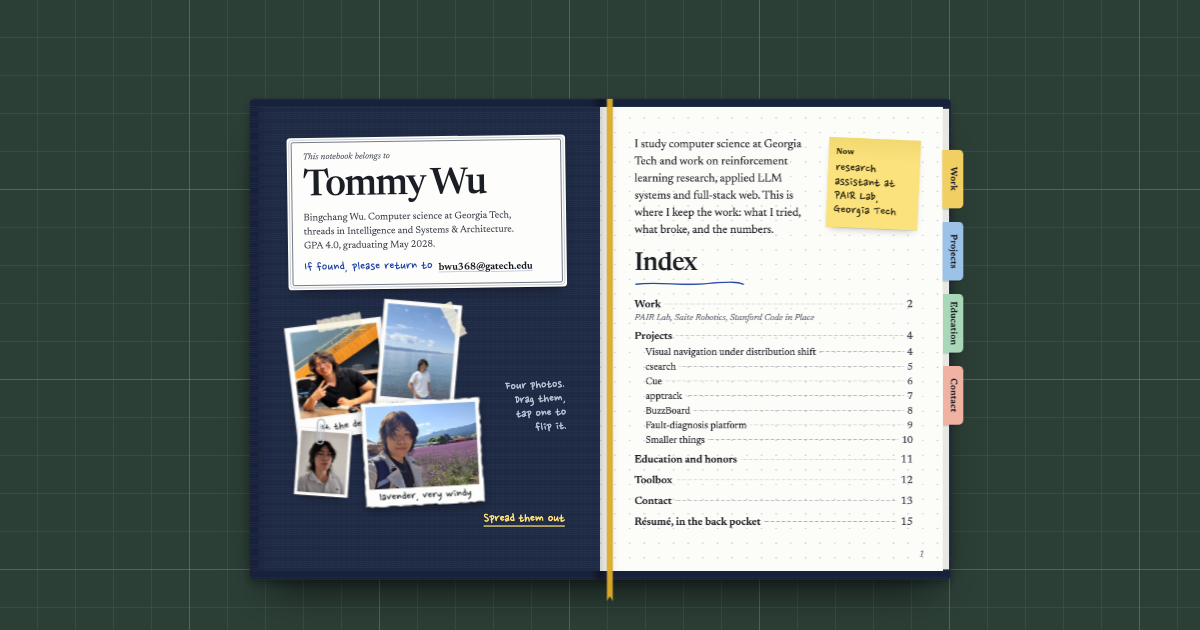
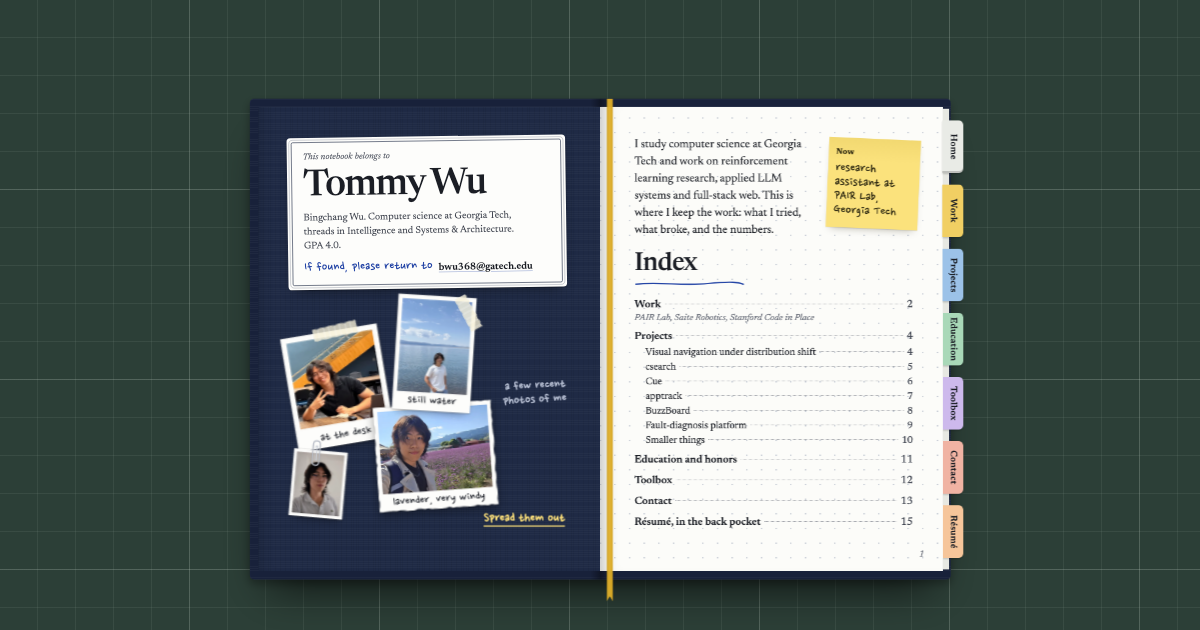
Finish notebook polish and add page stickers

diff --git a/src/notebook/css/home.css b/src/notebook/css/home.css
@@ -240,7 +240,7 @@ body.home main { position: relative; display: flex; flex-direction: column; alig
 
 /* tabs */
 .tab {
-  position: absolute; top: var(--ty); width: 34px; height: 96px; padding: 0; border: 0; cursor: pointer;
+  position: absolute; top: var(--ty); width: 34px; height: 86px; padding: 0; border: 0; cursor: pointer;
   background: var(--tc); color: #1b1e25; font-family: var(--print); font-size: 15px; font-weight: 600; letter-spacing: .01em;
   writing-mode: vertical-rl; display: grid; place-items: center;
   box-shadow: 0 2px 3px rgba(0,0,0,.18);
@@ -252,7 +252,7 @@ body.home main { position: relative; display: flex; flex-direction: column; alig
 .face.front .tab:hover { translate: 3px 0; }
 .face.back .tab:hover { translate: -3px 0; }
 .tab[aria-current="true"] { box-shadow: 0 2px 3px rgba(0,0,0,.18), inset 0 -3px 0 rgba(0,0,0,.18); }
-.tab.c1 { --tc: var(--tab-1); } .tab.c2 { --tc: var(--tab-2); } .tab.c3 { --tc: var(--tab-3); } .tab.c4 { --tc: var(--tab-4); }
+.tab.c0 { --tc: var(--tab-0); } .tab.c5 { --tc: var(--tab-5); } .tab.c6 { --tc: var(--tab-6); } .tab.c1 { --tc: var(--tab-1); } .tab.c2 { --tc: var(--tab-2); } .tab.c3 { --tc: var(--tab-3); } .tab.c4 { --tc: var(--tab-4); }
 
 /* turning handles and the folded corner */
 .grab { position: absolute; top: 0; height: 760px; width: 60px; z-index: 400; cursor: grab; touch-action: none; background: none; border: 0; padding: 0; }
@@ -276,7 +276,7 @@ body.home main { position: relative; display: flex; flex-direction: column; alig
 .pocket .ptabs::-webkit-scrollbar { display: none; }
 .ptab { flex: 1 1 auto; height: 34px; padding: 0 6px; border: 0; border-radius: 7px 7px 0 0; background: var(--tc); color: #1b1e25; font-weight: 600; font-size: 13.5px; cursor: pointer; translate: 0 6px; white-space: nowrap; transition: translate .35s var(--spring); }
 .ptab[aria-current="true"] { translate: 0 0; box-shadow: 0 -2px 4px rgba(0,0,0,.15); }
-.ptab.c0 { --tc: #e9ebe6; } .ptab.c1 { --tc: var(--tab-1); } .ptab.c2 { --tc: var(--tab-2); } .ptab.c3 { --tc: var(--tab-3); } .ptab.c4 { --tc: var(--tab-4); }
+.ptab.c0 { --tc: var(--tab-0); } .ptab.c5 { --tc: var(--tab-5); } .ptab.c6 { --tc: var(--tab-6); } .ptab.c1 { --tc: var(--tab-1); } .ptab.c2 { --tc: var(--tab-2); } .ptab.c3 { --tc: var(--tab-3); } .ptab.c4 { --tc: var(--tab-4); }
 .spiral { position: relative; z-index: 5; height: 26px; margin: 0 4px -12px; pointer-events: none;
   background:
     radial-gradient(ellipse 5px 11px at 50% 50%, transparent 0 3px, #8d939c 3.2px 4.6px, transparent 5px) 0 0 / 20px 26px repeat-x; }
@@ -344,3 +344,28 @@ body.home main { position: relative; display: flex; flex-direction: column; alig
 .e-links .e-note { flex-basis: 100%; }
 /* a page that already lists its trials has no room left for a sketch */
 .entry.feature:has(.trials) .doodle { display: none; }
+/* Photos keep their stacking order to themselves: however often one is raised,
+   it can't climb above the notebook's leaves. */
+.pile-list { isolation: isolate; }
+
+/* ---------- logo stickers (Sticker.astro) ---------- */
+.sticker {
+  position: absolute; z-index: 3; top: -16px; right: -18px; width: var(--w);
+  transform: rotate(var(--r)); transition: transform .45s var(--spring);
+  text-decoration: none;
+}
+.sticker img {
+  display: block; width: 100%; height: auto;
+  /* die-cut: a white outline traced around the logo, then a soft shadow */
+  filter: drop-shadow(2px 0 0 #fff) drop-shadow(-2px 0 0 #fff) drop-shadow(0 2px 0 #fff) drop-shadow(0 -2px 0 #fff)
+          drop-shadow(0 3px 4px rgba(0, 0, 0, .22));
+}
+.sticker.st-rect img { filter: none; border: 3px solid #fff; border-radius: 9px; box-shadow: 0 3px 6px rgba(0, 0, 0, .25); }
+.sticker:hover, .sticker:focus-visible { transform: rotate(calc(var(--r) * -0.4)) translateY(-3px) scale(1.06); }
+.st-label { position: absolute; top: 100%; right: 0; margin-top: 4px; white-space: nowrap; font-size: 20px; line-height: 20px; color: var(--pen); transform: rotate(calc(var(--r) * -1 - 3deg)); }
+.st-link .st-label::after { content: " ↗"; font-family: var(--print); font-size: 13px; }
+/* make room for a corner sticker so it never covers the date */
+.entry:has(> .sticker) > .e-head { padding-right: calc(var(--sw, 64px) - 6px); }
+.sticker.st-rect { top: -30px; }
+.pocket .sticker { top: -4px; right: -6px; }
+.pocket .sticker.st-rect { top: -10px; }

diff --git a/src/notebook/js/book.js b/src/notebook/js/book.js
@@ -15,9 +15,11 @@
   const W = 1120, H = 760, PAD_X = 56, PAD_TOP = 18, PAD_BOT = 70;
   pages.forEach((p, i) => p.classList.add(i % 2 ? 'r' : 'l'));
   const spreadOf = (pi) => Math.floor(pi / 2);
-  const tabs = pages.map((p, pi) => p.dataset.tab ? { label: p.dataset.tab, c: p.dataset.tabc, pi, spread: spreadOf(pi), leaf: pi % 2 ? (pi - 1) / 2 : pi / 2 - 1 } : null).filter(Boolean);
-  const mk = (tag, cls, attrs = {}) => { const n = document.createElement(tag); n.className = cls + ' gen'; for (const k in attrs) n.setAttribute(k, attrs[k]); return n; };
   const clamp = (v, a, b) => Math.max(a, Math.min(b, v));
+  // A tab rides the leaf its page is on. The inside covers aren't on a leaf, so
+  // their tabs (Home, Résumé) ride the first and last leaves instead.
+  const tabs = pages.map((p, pi) => p.dataset.tab ? { label: p.dataset.tab, c: p.dataset.tabc, pi, spread: spreadOf(pi), leaf: clamp(pi % 2 ? (pi - 1) / 2 : pi / 2 - 1, 0, L - 1) } : null).filter(Boolean);
+  const mk = (tag, cls, attrs = {}) => { const n = document.createElement(tag); n.className = cls + ' gen'; for (const k in attrs) n.setAttribute(k, attrs[k]); return n; };
 
   let mode = null, cur = 0, stage = null, leaves = [], grabs = {}, edges = {}, sheets = [], ptabs = [], raf = 0, drag = null, pendingFocus = null;
 
@@ -41,7 +43,7 @@
       const lf = leaves[t.leaf];
       for (const face of ['front', 'back']) {
         const b = mk('button', `tab c${t.c}`, { type: 'button', 'data-spread': t.spread });
-        b.style.setProperty('--ty', 70 + j * 118 + 'px');
+        b.style.setProperty('--ty', 22 + j * Math.min(118, (H - 44 - 86) / Math.max(1, tabs.length - 1)) + 'px');
         b.textContent = t.label;
         b.addEventListener('click', () => go(t.spread, { focus: pages[t.pi] }));
         lf[face].append(b); lf.tabs.push({ b, face, spread: t.spread });
@@ -183,7 +185,7 @@
   function buildPocket() {
     book.classList.add('pocket');
     const nav = mk('nav', 'ptabs', { 'aria-label': 'Sections' });
-    ptabs = [{ label: 'Index', c: 0, spread: 0, pi: 1 }, ...tabs].map((t) => {
+    ptabs = (tabs[0] && tabs[0].spread === 0 ? tabs : [{ label: 'Index', c: 0, spread: 0, pi: 1 }, ...tabs]).map((t) => {
       const b = mk('button', `ptab c${t.c}`, { type: 'button' });
       b.textContent = t.label;
       b.addEventListener('click', () => go(t.spread, { focus: pages[t.pi] }));

diff --git a/src/content.config.ts b/src/content.config.ts
@@ -9,6 +9,21 @@ import { z } from 'astro/zod';
 
 const link = z.object({ label: z.string(), href: z.string() });
 
+/**
+ * A logo sticker on the entry's notebook page: src/assets/stickers/<name>.png.
+ * With `href` it's a link (e.g. a certificate); `label` is a handwritten note beside it.
+ */
+const sticker = z.object({
+  name: z.string(),
+  href: z.string().optional(),
+  label: z.string().optional(),
+  /** Width in px on the page. */
+  width: z.number().default(64),
+  tilt: z.number().default(6),
+  /** A rectangular sticker (logo on its own background) instead of a die-cut one. */
+  rect: z.boolean().default(false),
+});
+
 /** A big number with a caption, set as a pull-figure beside an entry. */
 const figure = z.object({ value: z.string(), caption: z.string() });
 
@@ -53,6 +68,7 @@ const projects = defineCollection({
      *   map:    an orienteering map
      */
     expansion: z.enum(['folder', 'scroll', 'zine', 'map']).optional(),
+    sticker: sticker.optional(),
     /** The button label on the notebook page, e.g. "Open the folder". Defaults per shell. */
     openLabel: z.string().optional(),
     /** Case-study header: your role on the project. */
@@ -72,6 +88,7 @@ const experience = defineCollection({
     blurb: z.string().optional(),
     /** Project ids (files in src/content/projects) that came out of this role. */
     projects: z.array(z.string()).default([]),
+    sticker: sticker.optional(),
     when: z.string(),
     /** Start date, used for sorting. */
     date: z.coerce.date(),

diff --git a/src/data/site.ts b/src/data/site.ts
@@ -21,7 +21,7 @@ export const site = {
 /** Short facts on the cover. */
 export const facts: { label: string; value: string }[] = [
   { label: 'Now', value: 'Research assistant, PAIR Lab' },
-  { label: 'Studying', value: 'B.S. Computer Science, Georgia Tech, May 2028' },
+  { label: 'Studying', value: 'B.S. Computer Science, Georgia Tech' },
   { label: 'Threads', value: 'Intelligence; Systems & Architecture' },
 ];
 
@@ -34,7 +34,7 @@ export const about: string[] = [
 ];
 
 export const education: string[] = [
-  'Georgia Tech, B.S. Computer Science, 2025 to 2028. GPA 4.0.',
+  'Georgia Tech, B.S. Computer Science, since 2025. GPA 4.0.',
   'Dulwich College, A-Levels, 2023 to 2025.',
 ];
 

diff --git a/src/notebook/css/base.css b/src/notebook/css/base.css
@@ -42,6 +42,9 @@
   --tab-2: #9cc2e8;
   --tab-3: #a9d8b8;
   --tab-4: #f0b3a3;
+  --tab-0: #e9ebe6;
+  --tab-5: #cdb9ec;
+  --tab-6: #f6c59a;
 
   --print: "Newsreader Variable", "Newsreader", "Iowan Old Style", "Palatino Linotype", Georgia, serif;
   --hand: "Nanum Pen Script", "Bradley Hand", "Segoe Print", cursive;

diff --git a/src/content/experience/saite-robotics.md b/src/content/experience/saite-robotics.md
@@ -8,6 +8,7 @@ projects: [fault-diagnosis]
 figure:
   value: "~80%"
   caption: Less manual fault-triage time. Retrieval finds the right guidance in the top 3 results 93% of the time.
+sticker: { name: saite, width: 52, tilt: -6 }
 ---
 
 - Deployed an internal diagnostic platform that turns a robot's ROS logs into fault reports a technician can act on: deterministic subsystem diagnosis first, LLM analysis on top, a rule-based fallback underneath. Centralized telemetry; recovery survives a reboot.

diff --git a/src/content/experience/code-in-place.md b/src/content/experience/code-in-place.md
@@ -4,6 +4,7 @@ org: Stanford Code in Place
 when: Apr to Jun 2025
 date: 2025-04-01
 stack: [Python]
+sticker: { name: code-in-place, width: 72, tilt: 5, label: my certificate, href: "https://digitalcredential.stanford.edu/check/C22F9FC9FD6672CC31D5C5D13256D0F7561A8942F6F692265AA5054D7F962FFBbGEvb3Z3ekY0SWpLVlpFemN5ZnJkSUlNb0dFWnArcmo0Ly9SMmJXZ0hOVmZqRm9z" }
 ---
 
 - Taught Python to a section of 15 students, in a course serving more than 16,000 learners.

diff --git a/src/content/experience/pair-lab.md b/src/content/experience/pair-lab.md
@@ -5,6 +5,7 @@ when: Jul 2026 to now
 date: 2026-07-01
 stack: [Python, PyTorch, Stable-Baselines3, MiniGrid]
 projects: [visual-navigation]
+sticker: { name: pair, width: 56, tilt: 7 }
 ---
 
 - First project: visual navigation under distribution shift. Benchmarked five approaches; domain-randomized PPO, trained for 40M steps across three layout families, reached 100%, 98.4% and 97.8% success over 42, 249 and 276 layout patterns.
